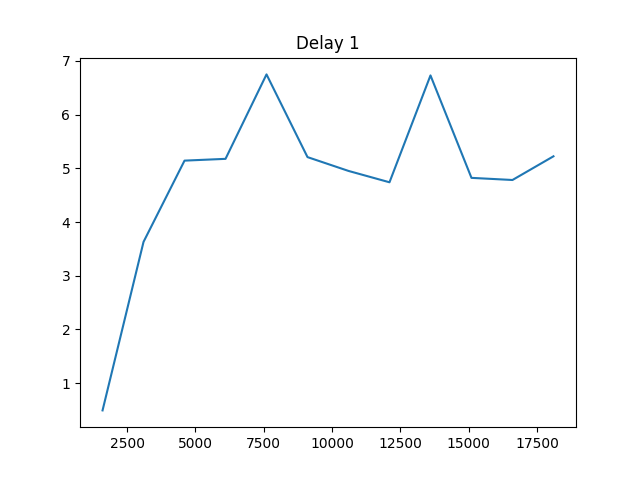
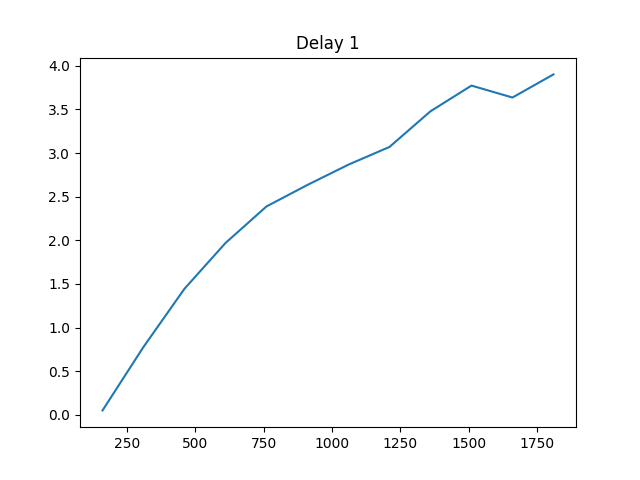
Fused Delay Graphs, Changed Reward Parameters

diff --git a/driver.py b/driver.py
@@ -29,7 +29,7 @@ def main():
             throughputs.append(throughput)
 
     else:
-        bsize = 100  # initial
+        bsize = 10  # initial
         bsizes = []
         for i in range(12):
             delay1, delay2, pdrop, sw_pdrop, throughput = QueueNet2.main(bsize)
@@ -49,7 +49,7 @@ def main():
             else:
                 reward += 20
 
-            bsize += (reward * 50)
+            bsize += (reward * 5)
 
             print("Buffer size is now ", bsize)
             bsizes.append(bsize)
@@ -57,18 +57,16 @@ def main():
     # print(delay1s, delay2s, pdrops, sw_pdrops)
 
     plt.figure(1)
-    plt.title("Delay 1")
-    plt.plot(np.array(bsizes), np.array(delay1s))
-    plt.savefig("delay1.png")
+    plt.title("Delay")
+    plt.plot(np.array(bsizes), np.array(delay1s)+np.array(delay2s))
+    plt.savefig("delay.png")
     plt.show()
 
-
-    plt.figure(2)
-    plt.title("Delay 2")
-    plt.plot(np.array(bsizes), np.array(delay2s))
-    plt.savefig("delay2.png")
-    plt.show()
-
+    #plt.figure(2)
+    #plt.title("Delay 2")
+    #plt.plot(np.array(bsizes), np.array(delay2s))
+    #plt.savefig("delay2.png")
+    #plt.show()
 
     plt.figure(3)
     plt.title("Packet drop %")
